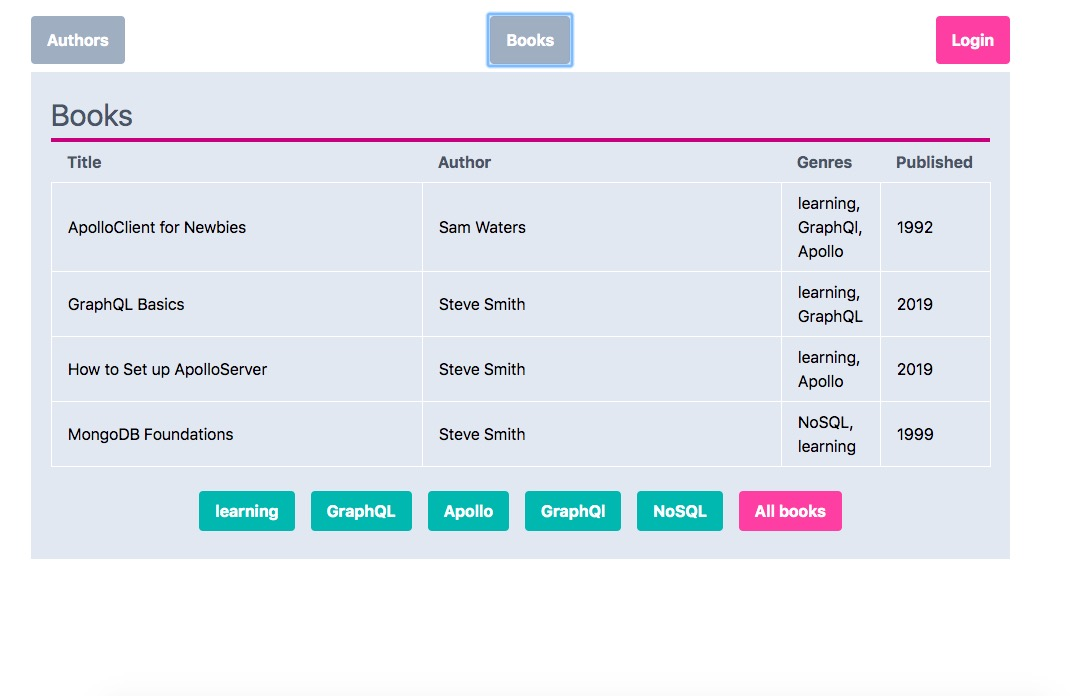
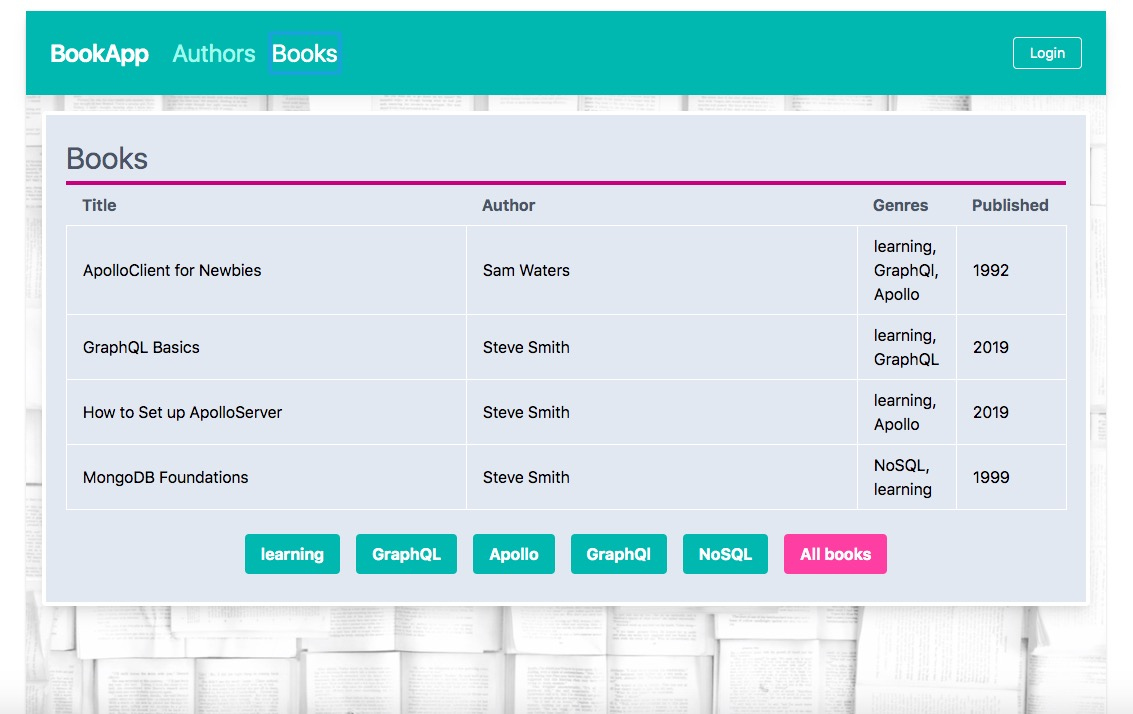
update styles and assets

diff --git a/08/library-frontend/src/App.js b/08/library-frontend/src/App.js
@@ -9,6 +9,7 @@ import LoginForm from './components/LoginForm'
 import { LOGIN, ADD_BOOK } from './graphql/mutations'
 import { ALL_BOOKS } from './graphql/queries'
 import { BOOK_ADDED } from './graphql/subscription'
+import library from './images/libraryshot.png'
 
 const App = () => {
   const [errorMessage, setErrorMessage] = useState(null)
@@ -76,21 +77,21 @@ const App = () => {
     </div>
 
   return (
-    <div className="w-3/4 my-4 m-auto">
-      <nav className="flex items-center justify-between flex-wrap bg-teal-500 p-6">
+    <div className="w-3/4 my-4 m-auto rounded-lg shadow">
+      <nav className="flex items-center justify-between flex-wrap bg-teal-500 p-6 shadow-lg">
         <div className="flex items-center flex-shrink-0 text-white mr-6">
           <span className="font-semibold text-2xl tracking-tight">BookApp</span>
         </div>
         <div className="w-full block flex-grow lg:flex lg:items-center lg:w-auto">
           <div className="text-sm lg:flex-grow">
             <button
-              className="block mt-4 lg:inline-block lg:mt-0 text-2xl text-xl text-teal-200 hover:text-white mr-4"
+              className="block mt-4 lg:inline-block lg:mt-0 text-2xl text-xl text-teal-200 hover:text-white active:text-white focus:text-white mr-4"
               onClick={() => setPage('authors')}
             >
               Authors
             </button>
             <button
-              className="block mt-4 lg:inline-block lg:mt-0 text-2xl text-teal-200 hover:text-white mr-4"
+              className="block mt-4 lg:inline-block lg:mt-0 text-2xl text-teal-200 hover:text-white active:text-white focus:text-white mr-4"
               onClick={() => setPage('books')}
             >
               Books
@@ -110,13 +111,13 @@ const App = () => {
             <React.Fragment>
               <div>
                 <button
-                  className="block mt-4 lg:inline-block lg:mt-0 text-2xl text-teal-200 hover:text-white mr-4"
+                  className="block mt-4 lg:inline-block lg:mt-0 text-2xl text-teal-200 hover:text-white active:text-white focus:text-white mr-4"
                   onClick={() => setPage('add')}
                 >
-                  Add book
+                  Add Book
                 </button>
                 <button
-                  className="block mt-4 lg:inline-block lg:mt-0 text-2xl text-teal-200 hover:text-white mr-4"
+                  className="block mt-4 lg:inline-block lg:mt-0 text-2xl text-teal-200 hover:text-white active:text-white focus:text-white mr-4"
                   onClick={() => setPage('recommendations')}
                 >
                   Recommendations
@@ -134,6 +135,7 @@ const App = () => {
           )}
           </div>
       </nav>
+      <div className="h-screen bg-cover p-4" style={{ backgroundImage: `url(${library})` }}>
       {errorNotification()}
       <Authors show={page === 'authors'} token={token} />
       <Books show={page === 'books'} client={client} />
@@ -147,7 +149,7 @@ const App = () => {
           setPage={setPage}
         />
       )}
-
+      </div>
     </div>
   )
 }

diff --git a/08/library-frontend/src/components/Books.js b/08/library-frontend/src/components/Books.js
@@ -27,12 +27,12 @@ const Books = ({ show, client }) => {
     return null
   }
   if (loading) {
-    return <div className="text-2xl text-gray-500 mt-4">Loading...</div>
+    return <div className="text-2xl text-gray-700 p-4 shadow-lg">Loading...</div>
   }
 
   if(!books){
     return (
-      <div className="text-2xl text-gray-500 mt-4">
+      <div className="text-2xl text-gray-700 p-4 shadow-lg">
         <p>No books</p>
       </div>
     )
@@ -67,7 +67,7 @@ const Books = ({ show, client }) => {
   }
 
   return (
-    <div className="w-100 p-5 m-2 bg-gray-300">
+    <div className="w-100 p-5 bg-gray-300 shadow-lg border-4 border-white rounded">
       <h2 className="text-3xl text-gray-700">Books</h2>
       <hr className="h-1 bg-pink-700" />
 
@@ -102,7 +102,7 @@ const Books = ({ show, client }) => {
           )}
         </tbody>
       </table>
-      <div className="flex flex-row justify-center">
+      <div className="flex flex-row flex-wrap justify-center">
         {genres.map(genre => (
           <button
             value={genre}

diff --git a/08/library-frontend/src/components/Recommendations.js b/08/library-frontend/src/components/Recommendations.js
@@ -50,7 +50,7 @@ const Recommendations = ({ token, show }) => {
         <h3 className="mb-4 text-gray-700">Your favourite genre is: <br/>
           <span className="text-pink-500">{user.favoriteGenre}</span></h3>
         <p className="mb-4 text-gray-700 underline">Here are your matches:</p>
-        <ul className="list-inside list-disc">
+        <ul className="list-inside list-none">
         {userBooks.map(book => (
           <li className="border border-gray-500 p-2 rounded-sm shadow" key={book.published}>{book.title}</li>
         ))}
@@ -59,7 +59,7 @@ const Recommendations = ({ token, show }) => {
     )
   }
   return (
-    <div className="w-100 p-5 m-2 bg-gray-300">
+    <div className="w-100 p-5 bg-gray-300 shadow-lg border-4 border-white rounded">
       <h1 className="text-3xl text-gray-700">Recommendations</h1>
       <hr className="h-1 bg-pink-700" />
       <div className="w-80 p-5 my-1 mx-auto bg-white">

diff --git a/07/bloglist_frontend_redux/src/components/Layout/Navigation.js b/07/bloglist_frontend_redux/src/components/Layout/Navigation.js
@@ -56,9 +56,7 @@ const Navigation = ({ users, blogs, currentUser, handleLogout }) => {
       <AppBar position="static" color="default" elevation={0} className={classes.appBar}>
         <Toolbar className={classes.toolbar}>
           <Link className={classes.link} to="/">
-            <Typography variant="h4">
-              BlogApp
-            </Typography>
+            <Header />
           </Link>
           <nav>
             <Link className={classes.link} to="/">Blogs</Link>
@@ -76,7 +74,6 @@ const Navigation = ({ users, blogs, currentUser, handleLogout }) => {
             : null }
         </Toolbar>
       </AppBar>
-      <Header />
       <Notification />
       <Route exact path="/" render={() => <BlogList />} />
       <Route exact path="/users" render={() => <UserList />} />

diff --git a/08/library-frontend/src/components/Authors.js b/08/library-frontend/src/components/Authors.js
@@ -11,15 +11,15 @@ const Authors = ({ show, token }) => {
   }
 
   if (loading) {
-    return <div className="text-2xl text-gray-500 mt-4">Loading...</div>
+    return <div className="text-2xl text-gray-700 p-4 shadow-lg">Loading...</div>
   }
   if (!data) {
-    return <div className="text-2xl text-gray-500 mt-4"><p>Back end not connected</p></div>
+    return <div className="text-2xl text-gray-700 p-4 shadow-lg"><p>Back end not connected</p></div>
   }
   const authors = data.allAuthors
 
   return (
-    <div className="w-100 p-5 m-2 bg-gray-300">
+    <div className="w-100 p-5 bg-gray-300 shadow-lg border-4 border-white rounded">
       <h2 className="text-3xl text-gray-700">Authors</h2>
       <hr className="h-1 bg-pink-700" />
       {error &&

diff --git a/08/library-frontend/src/components/LoginForm.js b/08/library-frontend/src/components/LoginForm.js
@@ -26,7 +26,7 @@ const LoginForm = (props) => {
     <div className="w-full max-w-md mx-auto p-8">
       <form
         onSubmit={submit}
-        className="bg-white shadow-md rounded px-8 pt-6 pb-8 my-4 mx-auto border border-pink-500"
+        className="bg-white shadow-lg rounded px-8 pt-6 pb-8 my-4 mx-auto border-2 border-pink-500"
       >
         <div className="mb-4">
           <label

diff --git a/08/library-frontend/tailwind.js b/08/library-frontend/tailwind.js
@@ -475,7 +475,7 @@ module.exports = {
     stroke: ['responsive'],
     tableLayout: ['responsive'],
     textAlign: ['responsive'],
-    textColor: ['responsive', 'hover', 'focus'],
+    textColor: ['responsive', 'hover', 'focus', 'active'],
     textDecoration: ['responsive', 'hover', 'focus'],
     textTransform: ['responsive'],
     userSelect: ['responsive'],

diff --git a/08/library-frontend/src/components/NewBook.js b/08/library-frontend/src/components/NewBook.js
@@ -28,7 +28,7 @@ const NewBook = (props) => {
   }
 
   return (
-    <div className="w-100 p-5 m-2 bg-gray-300">
+    <div className="w-100 p-5 bg-gray-300 shadow border-4 border-white rounded">
       <h2 className="text-3xl text-gray-700">New Book</h2>
       <hr className="h-1 bg-pink-700" />
       <form

diff --git a/08/library-frontend/src/components/UpdateAuthor.js b/08/library-frontend/src/components/UpdateAuthor.js
@@ -35,7 +35,7 @@ const UpdateAuthor = (props) => {
 
   return (
     <form
-      className="bg-white shadow-md rounded px-8 pt-6 pb-8 mb-4"
+      className="bg-white border-4 border-white shadow-md rounded px-8 pt-6 pb-8 mb-4"
       onSubmit={submit}
     >
       <div className="mb-4">

diff --git a/07/blog_list_backend/controllers/blogs.js b/07/blog_list_backend/controllers/blogs.js
@@ -9,7 +9,6 @@ blogsRouter.get('/', async (req, res) => {
     .find({})
     .populate('user', { name: 1, username: 1 })
     .populate('comments', { comment: 1 })
-  console.log('bloggy', blogs)
   res.json(blogs.map(blog => blog.toJSON()))
 })
 
